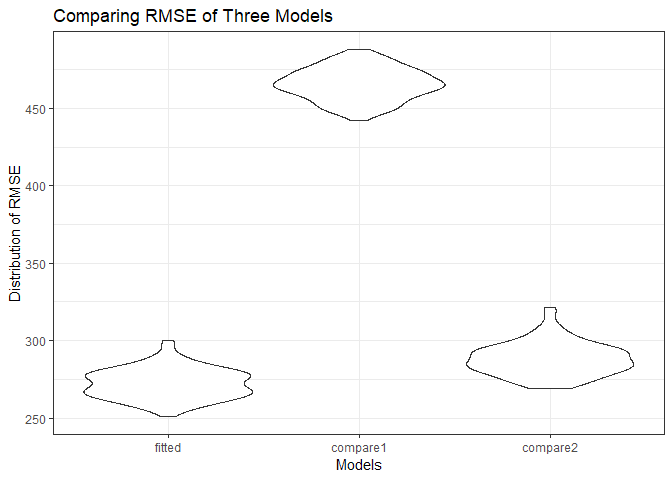
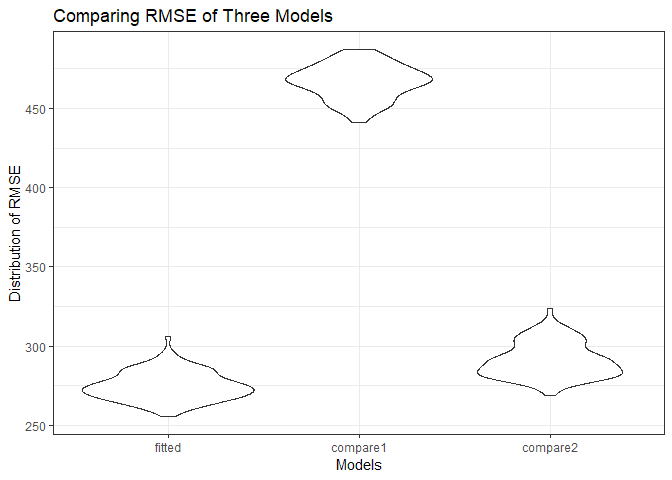
comments added

diff --git a/p8105_hw6_jt3098.md b/p8105_hw6_jt3098.md
@@ -31,12 +31,8 @@ homicide_data =
 homicide_data = 
   homicide_data %>%
   mutate(victim_age = as.numeric(victim_age))
-```
 
-    ## Warning in evalq(as.numeric(victim_age), <environment>): NAs introduced by
-    ## coercion
 
-``` r
 # Omit several cities that do not have the correct information
 homicide_data = 
   homicide_data %>%
@@ -354,6 +350,8 @@ step(birthweight_lm_all, direction = "backward")
 birthweight_best = lm(bwt ~ babysex + bhead + blength + delwt + fincome + gaweeks + mheight + mrace + parity + ppwt + smoken, data = birthweight_data)
 ```
 
+In order to choose the most relevant predictors, I used 'step' function with 'backward' method to find the best model. At the very beginning, the model contains all variables in the original dataset. Then, the variable with the highest p-value would be taken out. The next variable with the highest p-value would be taken out...Finally, the model would only comprise of variables with p-value less than the criteria (0.05). Therefore, we got our most fitted model.
+
 ``` r
 # Making a plot for residuals and predictions
 birthweight_data %>%
@@ -399,3 +397,5 @@ compare_df %>%
 ```
 
 ![](p8105_hw6_jt3098_files/figure-markdown_github/make%20a%20plot%20to%20show%20the%20comparism-1.png)
+
+Comments: in this graph, we could see that, the fitted model selected by 'backward elimination' has the lowest rmse, and the model only contains the main predictor has the highest rmse. So, the model we've built is better than the other two models.
